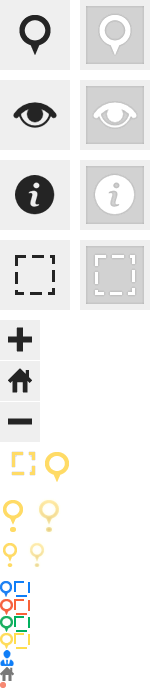
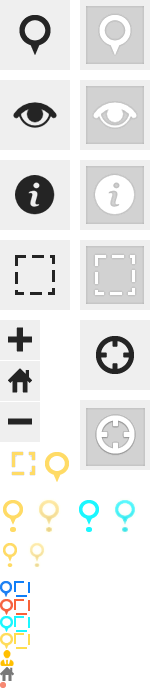
修改图钉和光标样式

diff --git a/js/jquery.marktools.js b/js/jquery.marktools.js
@@ -357,7 +357,7 @@
                         //创建静态图钉
                         var $staticPin = $.markTools.createMark('pin');
                         //创建mark容器
-                        var $markContainer = $.markTools.createMarkContainer('hehe', offset, $staticPin);
+                        var $markContainer = $.markTools.createMarkContainer('hehe', $staticPin, offset);
                         //显示对话框
                         $markContainer.append(showMarkDialog(offset));
                         //弹起所有按钮
@@ -527,21 +527,23 @@
         /**
          * 创建mark容器，该容器包含mark本身和mark-box信息框
          * @param  {String} strId 该容器的id
-         * @param  {Object} offset      [description]
-         * @param  {Number} offset.left
-         * @param  {Number} offset.top
          * @param  {jQuery Object} $markObj    [description]
+         * @param  {Object} [offset]      [description]
+         * @param  {Number} [offset.left]
+         * @param  {Number} [offset.top]
          * @param  {[type]} margin      [description]
          * @return {[type]}             创建好的mark容器
          */
-        createMarkContainer: function(strId, offset, $markObj, margin) {
-            var $newContainer = $('<div class="mark-container"></div>')
+        createMarkContainer: function(strId, $markObj, offset, margin) {
+            var $newContainer = $('<div class="mark-container"></div>'),
                 $callObject = $.markTools.$callObject;
-            $newContainer.attr('id', strId)
-                .css({
+            $newContainer.attr('id', strId);
+            if(offset !== undefined){
+                $newContainer.css({
                     'left': offset.left,
                     'top': offset.top
                 });
+            }
             $newContainer.append($markObj);
             $callObject.append($newContainer);
 

diff --git a/css/jquery.marktools.css b/css/jquery.marktools.css
@@ -40,11 +40,12 @@
 /* pin鼠标光标 */
 .cursor-pin {
     position: absolute;
-    width: 14px;
-    height: 24px;
-    margin-left: -7px;
-    margin-top: -25px;
-    background-image: url('../images/icon_pin.png');
+    width: 24px;
+    height: 38px;
+    margin-left: -12px;
+    margin-top: -39px;
+    background-image: url('../images/icon_action.png');
+    background-position: 0px -497px;
     background-repeat: no-repeat;
 }
 
@@ -68,16 +69,18 @@
 .static-pin {
     z-index: 12;
     position: absolute;
-    width: 14px;
-    height: 24px;
-    background-image: url('../images/icon_pin.png');
+    width: 24px;
+    height: 38px;
+    background-image: url('../images/icon_action.png');
+    background-position: 0px -497px;
     background-repeat: no-repeat;
 }
 
 .static-pin:hover {
-    background-image: url('../images/icon_pin_hover.png');
-    width: 18px;
-    height: 28px;
+    background-image: url('../images/icon_action.png');
+    background-position: -36px -497px;
+    width: 24px;
+    height: 38px;
 }
 
 .static-canvas {
